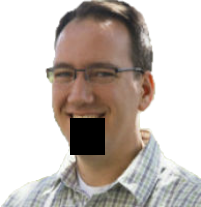
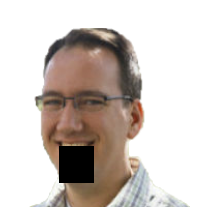
Edit TalkingProfessors Sprites

diff --git a/NTCSP/src/game/TalkingProfessor.java b/NTCSP/src/game/TalkingProfessor.java
@@ -16,9 +16,10 @@ public class TalkingProfessor extends AbstractSprite {
         content = cf.createContent(p.getMouthImageName());;
         switch (p.getHeadImageName()) {
             case "Bowers.png":
-                this.x = 86;
-                this.y = 129;
-                origin = 129;
+
+                this.x = 82;
+                this.y = 136;
+                origin = 136;
                 break;
             case "Lam.png":
                 this.x = 53;
@@ -26,24 +27,24 @@ public class TalkingProfessor extends AbstractSprite {
                 origin = 139;
                 break;
             case "Bernstein.png":
-                this.x = 88;
-                this.y = 90;
-                origin = 90;
+                this.x = 87;
+                this.y = 134;
+                origin = 134;
                 break;
             case "Mayfield.png":
-                this.x = 70;
-                this.y = 118;
-                origin = 118;
+                this.x = 59;
+                this.y = 146;
+                origin = 146;
                 break;
             case "Stewart.png":
                 this.x = 88;
-                this.y = 105;
-                origin = 105;
+                this.y = 139;
+                origin = 139;
                 break;
             case "Norton.png":
                 this.x = 96;
-                this.y = 148;
-                origin = 148;
+                this.y = 159;
+                origin = 159;
                 break;
             case "Fox.png":
                 this.x = 92;
@@ -52,8 +53,8 @@ public class TalkingProfessor extends AbstractSprite {
                 break;
             case "Weikle.png":
                 this.x = 102;
-                this.y = 98;
-                origin = 98;
+                this.y = 121;
+                origin = 121;
                 break;
             case "Aboutabl.png":
                 this.x = 69;
@@ -77,7 +78,7 @@ public class TalkingProfessor extends AbstractSprite {
 
     @Override
     public void handleTick(int i) {
-        if(y > origin + 5 ){
+        if(y > origin + 4 ){
             y = origin;
         } else {
             y = y + 2;

diff --git a/NTCSP/src/game/NTCSP.java b/NTCSP/src/game/NTCSP.java
@@ -291,7 +291,7 @@ public class NTCSP extends JApplication
 
             TalkingProfessor tp = new TalkingProfessor(cf, correctProfessor);
 
-            stage = new Stage(50);
+            stage = new Stage(65);
             stage.getView().setBounds(0, 550, 200, 200);
             stage.add(cf.createContent(correctProfessor.getHeadImageName()));
             stage.add(tp);
